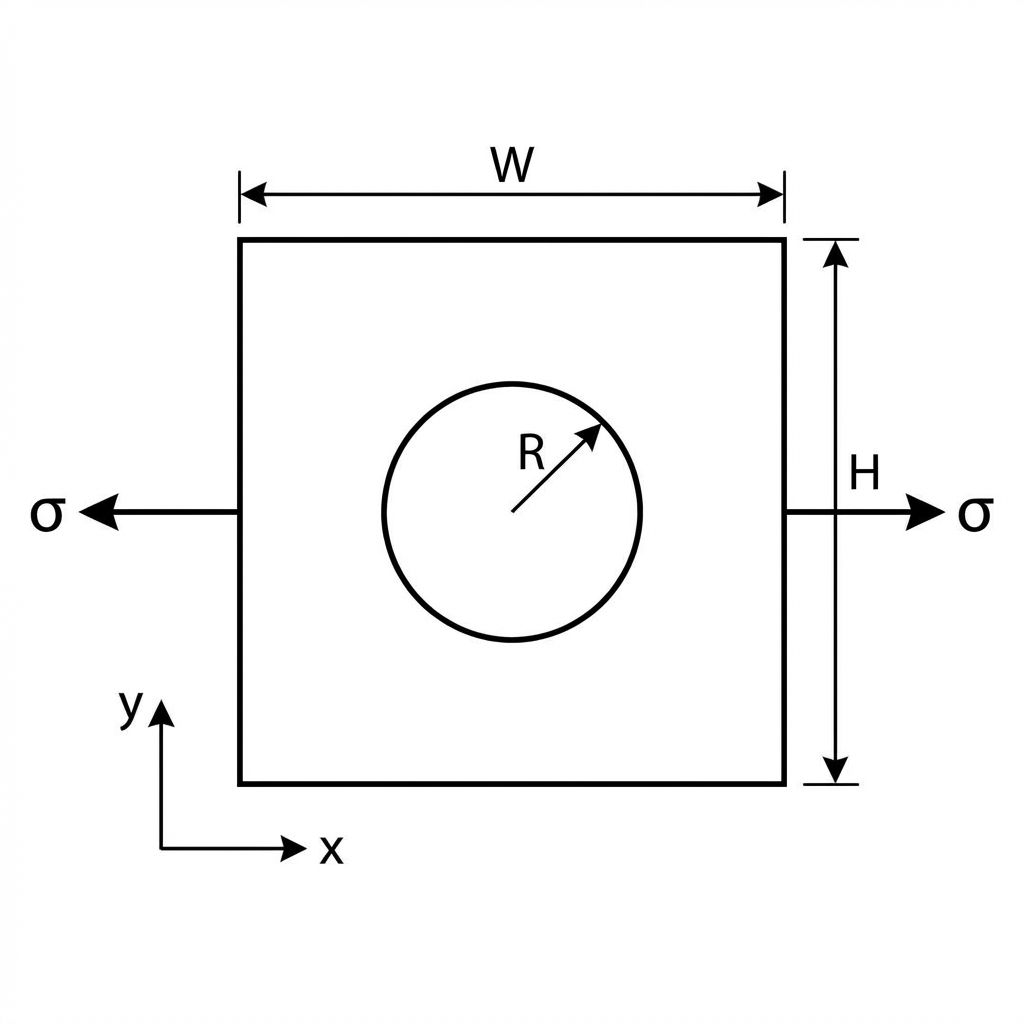
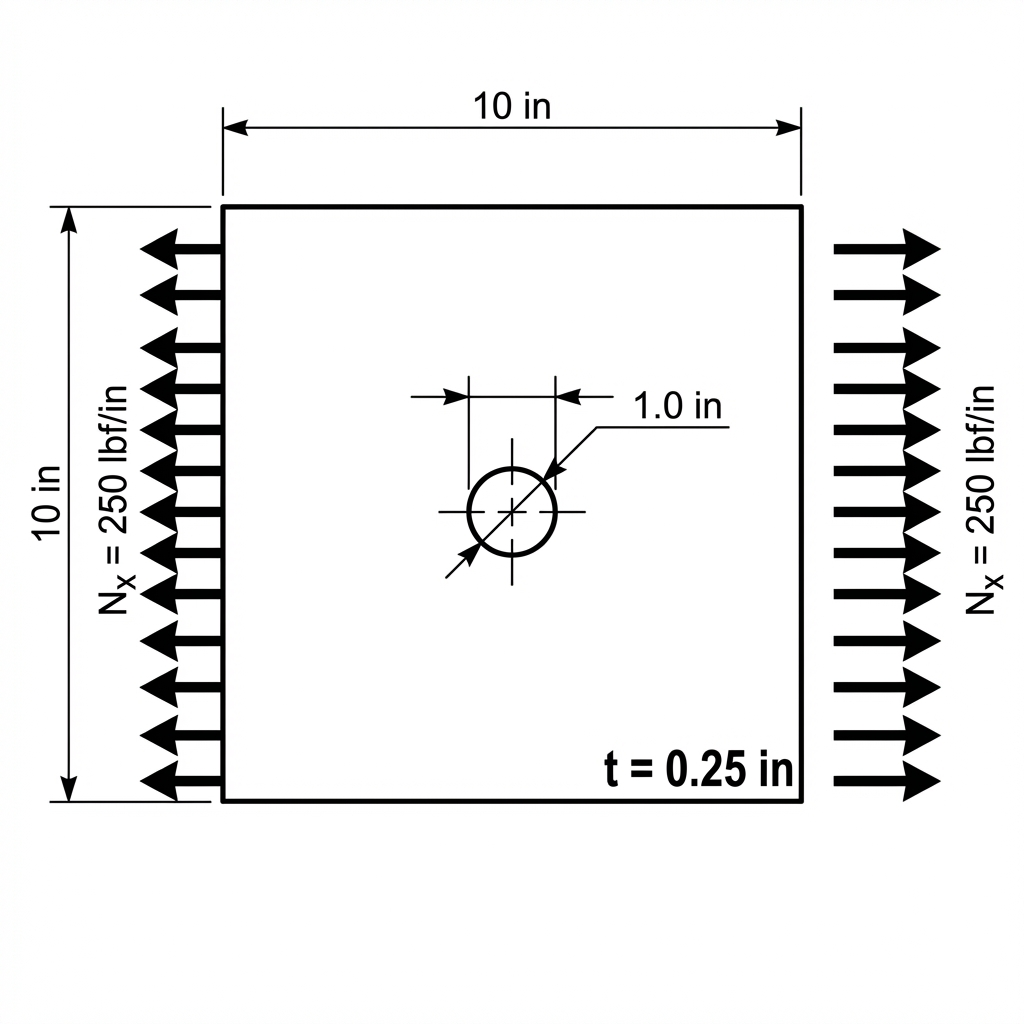
Swapping to running loads.
This commit adds the default capability of using running loads for input and local stresses for output.

diff --git a/src/panelyze/analysis/solver.py b/src/panelyze/analysis/solver.py
@@ -143,14 +143,17 @@ class BEMSolver:
         return du, dt
 
     def solve(
-        self, bc_type: np.ndarray, bc_value: np.ndarray
+        self, bc_type: np.ndarray, bc_value: np.ndarray, is_stress: bool = False
     ) -> Tuple[np.ndarray, np.ndarray]:
         """
         Solves the BEM system H*u = G*t for unknown boundary values.
 
         Args:
             bc_type: Array of 0 (traction known) or 1 (displacement known).
-            bc_value: Value of the prescribed boundary condition.
+            bc_value: Value of the prescribed boundary condition. If bc_type=0,
+                     this is treated as a running load (force/length) by default.
+            is_stress: If True, treats bc_value as stress (force/area) instead of
+                       running load. Defaults to False.
 
         Returns:
             Tuple[np.ndarray, np.ndarray]: Complete u and t boundary arrays.
@@ -159,29 +162,30 @@ class BEMSolver:
         A = np.zeros((size, size))
         b = np.zeros(size)
 
+        # Handle running loads vs stress
+        # running_load = stress * thickness -> stress = running_load / thickness
+        h = self.kernels.mat.thickness
+        traction_values = np.copy(bc_value)
+        if not is_stress:
+            # We only scale indices where bc_type == 0 (tractions)
+            for k in range(size):
+                if bc_type[k] == 0:
+                    traction_values[k] /= h
+
         # H u = G t
-        # If u is known: move H*u to RHS. Matrix column becomes -G.
-        # If t is known: move G*t to RHS. Matrix column remains H.
-
-        for j in range(size):  # column index
-            if (
-                bc_type[j] == 1
-            ):  # Displacement unknown? No, bc_type defines what is GIVEN.
-                pass  # logic below is better
-
-        # Let x be the vector of unknowns (u if t given, t if u given).
-        # H u - G t = 0
         # For each DOF k:
-        # If u[k] given: t[k] unknown. col k of A = -G[:, k]. RHS -= H[:, k] * u[k]
-        # If t[k] given: u[k] unknown. col k of A = H[:, k]. RHS += G[:, k] * t[k]
+        # If u[k] given (bc_type=1): t[k] unknown.
+        #    col k of A = -G[:, k]. RHS -= H[:, k] * u[k]
+        # If t[k] given (bc_type=0): u[k] unknown.
+        #    col k of A = H[:, k]. RHS += G[:, k] * t[k]
 
         for k in range(size):
             if bc_type[k] == 1:  # Displacement u[k] is GIVEN
                 A[:, k] = -self.G[:, k]
-                b -= self.H[:, k] * bc_value[k]
+                b -= self.H[:, k] * traction_values[k]
             else:  # Traction t[k] is GIVEN
                 A[:, k] = self.H[:, k]
-                b += self.G[:, k] * bc_value[k]
+                b += self.G[:, k] * traction_values[k]
 
         x = np.linalg.solve(A, b)
 
@@ -190,11 +194,11 @@ class BEMSolver:
         t = np.zeros(size)
         for k in range(size):
             if bc_type[k] == 1:
-                u[k] = bc_value[k]
+                u[k] = traction_values[k]
                 t[k] = x[k]
             else:
                 u[k] = x[k]
-                t[k] = bc_value[k]
+                t[k] = traction_values[k]
 
         return u, t
 
@@ -273,6 +277,24 @@ class BEMSolver:
             stresses[i, 2] = C[2, 0] * exx + C[2, 1] * eyy + C[2, 2] * gxy
 
         return stresses
+
+    def compute_resultants(
+        self, points: np.ndarray, u_boundary: np.ndarray, t_boundary: np.ndarray
+    ) -> np.ndarray:
+        """
+        Calculates force resultants (Nx, Ny, Nxy) at interior points.
+
+        Args:
+            points: Array of points (N, 2) where resultants are computed.
+            u_boundary: Solved boundary displacements.
+            t_boundary: Solved boundary tractions.
+
+        Returns:
+            np.ndarray: Array of force resultants (N, 3).
+        """
+        stresses = self.compute_stress(points, u_boundary, t_boundary)
+        h = self.kernels.mat.thickness
+        return stresses * h
 
     def _compute_u_gradient(
         self, P: np.ndarray, u_boundary: np.ndarray, t_boundary: np.ndarray

diff --git a/docs/examples/isotropic_plate.py b/docs/examples/isotropic_plate.py
@@ -6,13 +6,14 @@ from panelyze.analysis.material import OrthotropicMaterial
 from panelyze.analysis.solver import BEMSolver
 
 
-def verify_isotropic_plate_imperial():
+def verify_isotropic_plate_running_loads():
     # 1. Setup Material (Imperial: psi)
     # Al 6061-T6 approx: E = 10 Msi, nu = 0.33
     E, nu = 10.0e6, 0.33
     G = E / (2 * (1 + nu))
-    # Pseudo-isotropic perturbation
-    mat = OrthotropicMaterial(e1=E, e2=E * 1.001, nu12=nu, g12=G)
+    # Using a professional thickness for aerospace panels
+    thickness = 0.25
+    mat = OrthotropicMaterial(e1=E, e2=E * 1.001, nu12=nu, g12=G, thickness=thickness)
 
     # 2. Setup Geometry (Imperial: inches)
     W, H = 10.0, 10.0
@@ -28,17 +29,17 @@ def verify_isotropic_plate_imperial():
     solver = BEMSolver(BEMKernels(mat), elements)
     solver.assemble()
 
-    # 5. Boundary Conditions
+    # 5. Boundary Conditions (Running Loads lbf/in)
     bc_type = np.zeros(2 * len(elements), dtype=int)
     bc_value = np.zeros(2 * len(elements))
 
-    # Tension sigma = 1000 psi on sides
-    sigma = 1000.0
+    # Tension q = 250 lbf/in (corresponds to sigma = 1000 psi for t=0.25)
+    q_applied = 250.0
     for i, el in enumerate(elements):
         if np.isclose(el.center[0], 0.0):  # Left
-            bc_value[2 * i] = -sigma
+            bc_value[2 * i] = -q_applied
         if np.isclose(el.center[0], W):  # Right
-            bc_value[2 * i] = sigma
+            bc_value[2 * i] = q_applied
 
     # Corner Constraints
     bc_type[0:2] = 1  # u=0, v=0 at (0,0)
@@ -48,18 +49,27 @@ def verify_isotropic_plate_imperial():
     bc_type[2 * k_br + 1] = 1  # v=0
     bc_value[2 * k_br + 1] = 0.0
 
-    u, t = solver.solve(bc_type, bc_value)
+    # Solve using DEFAULT (running loads)
+    u, t = solver.solve(bc_type, bc_value, is_stress=False)
 
-    # 6. Evaluate stress at hole pole (r=0.51 in, i.e., 1.02R)
+    # 6. Evaluate stress and resultants at hole pole (r=0.51 in)
     eval_pts = np.array([[W / 2, H / 2 + 0.51]])
     stresses = solver.compute_stress(eval_pts, u, t)
+    resultants = solver.compute_resultants(eval_pts, u, t)
 
-    scf = stresses[0, 0] / sigma
-    print(f"Stress sigma_xx at hole pole (r=0.51): {stresses[0, 0]:.4f} psi")
-    print(f"Calculated SCF: {scf:.4f}")
+    sigma_applied = q_applied / thickness
+    scf_stress = stresses[0, 0] / sigma_applied
+    scf_resultant = resultants[0, 0] / q_applied
 
-    return scf
+    print(f"Applied Sigma: {sigma_applied:.1f} psi")
+    print(f"Applied Load q: {q_applied:.1f} lbf/in")
+    print(f"Stress sigma_xx: {stresses[0, 0]:.2f} psi")
+    print(f"Resultant Nx: {resultants[0, 0]:.2f} lbf/in")
+    print(f"SCF (from stress): {scf_stress:.3f}")
+    print(f"SCF (from resultant): {scf_resultant:.3f}")
+
+    return scf_stress
 
 
 if __name__ == "__main__":
-    verify_isotropic_plate_imperial()
+    verify_isotropic_plate_running_loads()

diff --git a/docs/examples.rst b/docs/examples.rst
@@ -1,12 +1,12 @@
 Getting Started: Isotropic Plate Example
 ========================================
 
-This example walks through setting up a simple stress analysis for a square isotropic plate with a circular cutout in the center, subjected to uniaxial tension.
+This example walks through setting up a simple stress analysis for a square isotropic plate with a circular cutout in the center, subjected to uniaxial tension. In Panelyze, boundary condition inputs default to **running loads** (e.g., $lbf/in$), which is standard for thin-panel aerospace analysis.
 
 Problem Description
 -------------------
 
-We will analyze a 10.0 in x 10.0 in square plate with a 1.0 in diameter hole (radius :math:`R = 0.5 \text{ in}`) at the center. The material is aluminum (isotropic), and we apply a 1,000 psi tensile load to the horizontal edges.
+We will analyze a 10.0 in x 10.0 in square plate with a 1.0 in diameter hole (radius :math:`R = 0.5 \text{ in}`) at the center. The panel thickness is **0.25 in**. The material is aluminum (isotropic), and we apply a **250 lbf/in** running load to the horizontal edges (equivalent to 1,000 psi stress).
 
 Free Body Diagram (FBD)
 -----------------------
@@ -37,7 +37,7 @@ Step-by-Step Implementation
 1. Define the Material
 ~~~~~~~~~~~~~~~~~~~~~~
 
-For an isotropic material, we set :math:`E_1 = E_2` and calculate :math:`G_{12}` from :math:`E` and :math:`\nu`. Note: Purely isotropic materials result in identical characteristic roots (:math:`\mu_1 = \mu_2 = i`), which can cause numerical singularities in the anisotropic formulation. We use a **pseudo-isotropic** approach by applying a small 0.1% perturbation to :math:`E_2`.
+For an isotropic material, we set :math:`E_1 = E_2` and calculate :math:`G_{12}` from :math:`E` and :math:`\nu`. We specify a thickness of 0.25 in.
 
 .. code-block:: python
 
@@ -49,7 +49,7 @@ For an isotropic material, we set :math:`E_1 = E_2` and calculate :math:`G_{12}`
    G = E / (2 * (1 + nu))
 
    # Use pseudo-isotropic modulus to avoid Lechenitskii singularity
-   mat = OrthotropicMaterial(e1=E, e2=E*1.001, nu12=nu, g12=G)
+   mat = OrthotropicMaterial(e1=E, e2=E*1.001, nu12=nu, g12=G, thickness=0.25)
 
 2. Create Geometry and Mesh
 ~~~~~~~~~~~~~~~~~~~~~~~~~~~
@@ -72,7 +72,7 @@ Define the panel dimensions and add a circular cutout.
 3. Assemble and Solve
 ~~~~~~~~~~~~~~~~~~~~~
 
-Using the `BEMKernels` and `BEMSolver` to find the unknown boundary values. We apply the loading as tractions and constrain the corners to remove rigid body modes.
+Using the `BEMKernels` and `BEMSolver`. By default, the `solve` method treats BC values as running loads ($lbf/in$).
 
 .. code-block:: python
 
@@ -85,23 +85,21 @@ Using the `BEMKernels` and `BEMSolver` to find the unknown boundary values. We a
 
    # Define Boundary Conditions (BCs)
    num_dofs = 2 * len(elements)
-   bc_type = np.zeros(num_dofs, dtype=int)  # 0 = Traction given
+   bc_type = np.zeros(num_dofs, dtype=int)  # 0 = Traction (Running Load) given
    bc_value = np.zeros(num_dofs)
 
-   # 1. Apply Traction BCs (1,000 psi Tension)
-   sigma = 1000.0
+   # 1. Apply Running Load BCs (250 lbf/in Tension)
+   q_applied = 250.0
    for i, el in enumerate(elements):
        if np.isclose(el.center[0], 0.0): # Left Edge
-           bc_value[2*i] = -sigma
+           bc_value[2*i] = -q_applied
        elif np.isclose(el.center[0], W): # Right Edge
-           bc_value[2*i] = sigma
+           bc_value[2*i] = q_applied
 
    # 2. Apply Displacement BCs (Corner Constraints)
-   # Bottom-left corner (~element 0): Fixed in X and Y (u=v=0)
    bc_type[0:2] = 1
    bc_value[0:2] = 0.0
 
-   # Bottom-right corner (~element n_side-1): Fixed in Y (v=0)
    k_br = n_side - 1
    bc_type[2*k_br + 1] = 1
    bc_value[2*k_br + 1] = 0.0
@@ -111,21 +109,22 @@ Using the `BEMKernels` and `BEMSolver` to find the unknown boundary values. We a
 4. Extract Results
 ~~~~~~~~~~~~~~~~~~
 
-Evaluate the stress at the stress concentration point (tip of the hole at :math:`\theta = 90^\circ`).
+Evaluate the stress ($psi$) and force resultants ($lbf/in$) at the stress concentration point.
 
 .. code-block:: python
 
-   # Point at theta=90 deg relative to hole center
-   # Evaluate at r=0.51 in (1.02R) for numerical stability
+   # Point at theta=90 deg relative to hole center (r=0.51 in)
    eval_pt = np.array([[W/2, H/2 + 0.51]])
    stresses = solver.compute_stress(eval_pt, u, t)
+   resultants = solver.compute_resultants(eval_pt, u, t)
 
    print(f"Sigma_xx at hole pole: {stresses[0, 0]:.1f} psi")
+   print(f"Nx at hole pole: {resultants[0, 0]:.1f} lbf/in")
 
 Verification Results
 --------------------
 
-The following code block is verified during documentation builds using the Sphinx `doctest` extension.
+The following code block is verified during documentation builds.
 
 .. testcode::
 
@@ -137,7 +136,8 @@ The following code block is verified during documentation builds using the Sphin
 
    E, nu = 10.0e6, 0.33
    G = E / (2 * (1 + nu))
-   mat = OrthotropicMaterial(e1=E, e2=E*1.001, nu12=nu, g12=G)
+   thickness = 0.25
+   mat = OrthotropicMaterial(e1=E, e2=E*1.001, nu12=nu, g12=G, thickness=thickness)
 
    W, H = 10.0, 10.0
    geom = PanelGeometry(W, H)
@@ -152,10 +152,10 @@ The following code block is verified during documentation builds using the Sphin
    bc_type = np.zeros(2 * len(elements), dtype=int)
    bc_value = np.zeros(2 * len(elements))
 
-   sigma = 1000.0
+   q_applied = 250.0
    for i, el in enumerate(elements):
-       if np.isclose(el.center[0], 0.0): bc_value[2*i] = -sigma
-       if np.isclose(el.center[0], W):   bc_value[2*i] = sigma
+       if np.isclose(el.center[0], 0.0): bc_value[2*i] = -q_applied
+       if np.isclose(el.center[0], W):   bc_value[2*i] = q_applied
 
    bc_type[0:2] = 1
    bc_value[0:2] = 0.0
@@ -167,10 +167,13 @@ The following code block is verified during documentation builds using the Sphin
    eval_pts = np.array([[W/2, H/2 + 0.51]])
    stress = solver.compute_stress(eval_pts, u, t)
 
-   # Expect SCF ~2.94
-   scf = stress[0, 0] / sigma
+   # Expect SCF ~2.94 based on stress
+   q_sigma = q_applied / thickness
+   scf = stress[0, 0] / q_sigma
+   print(f"Stress: {stress[0, 0]:.0f} psi")
    print(f"SCF: {scf:.2f}")
 
 .. testoutput::
 
+   Stress: 2944 psi
    SCF: 2.94
